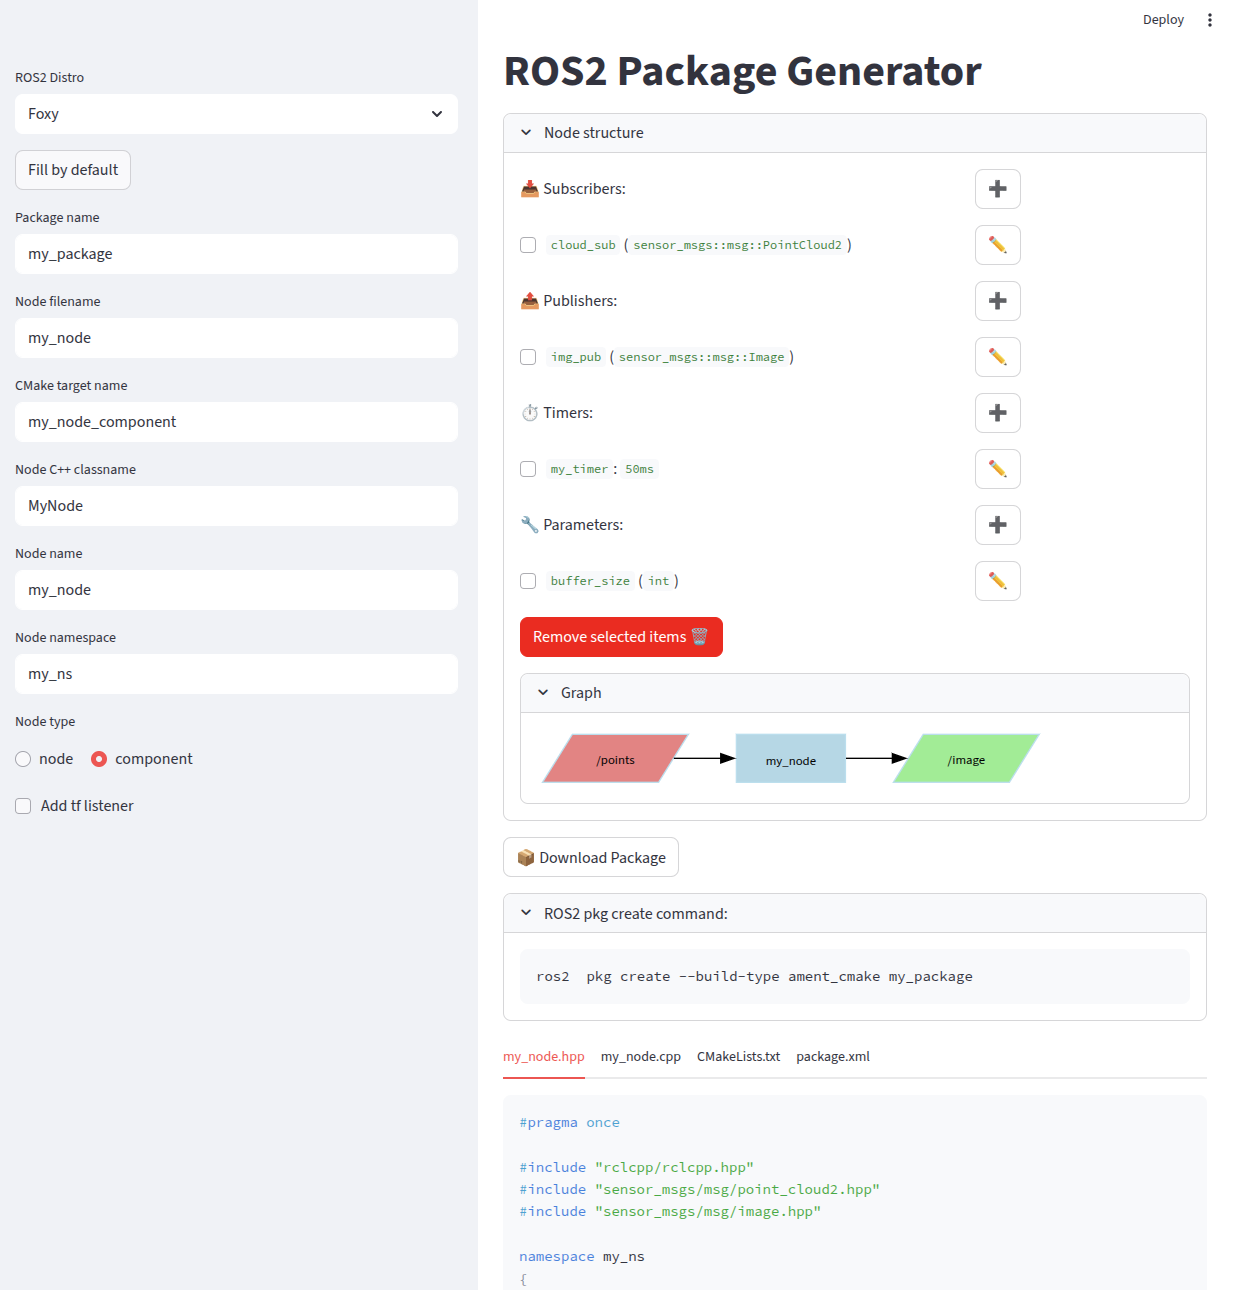
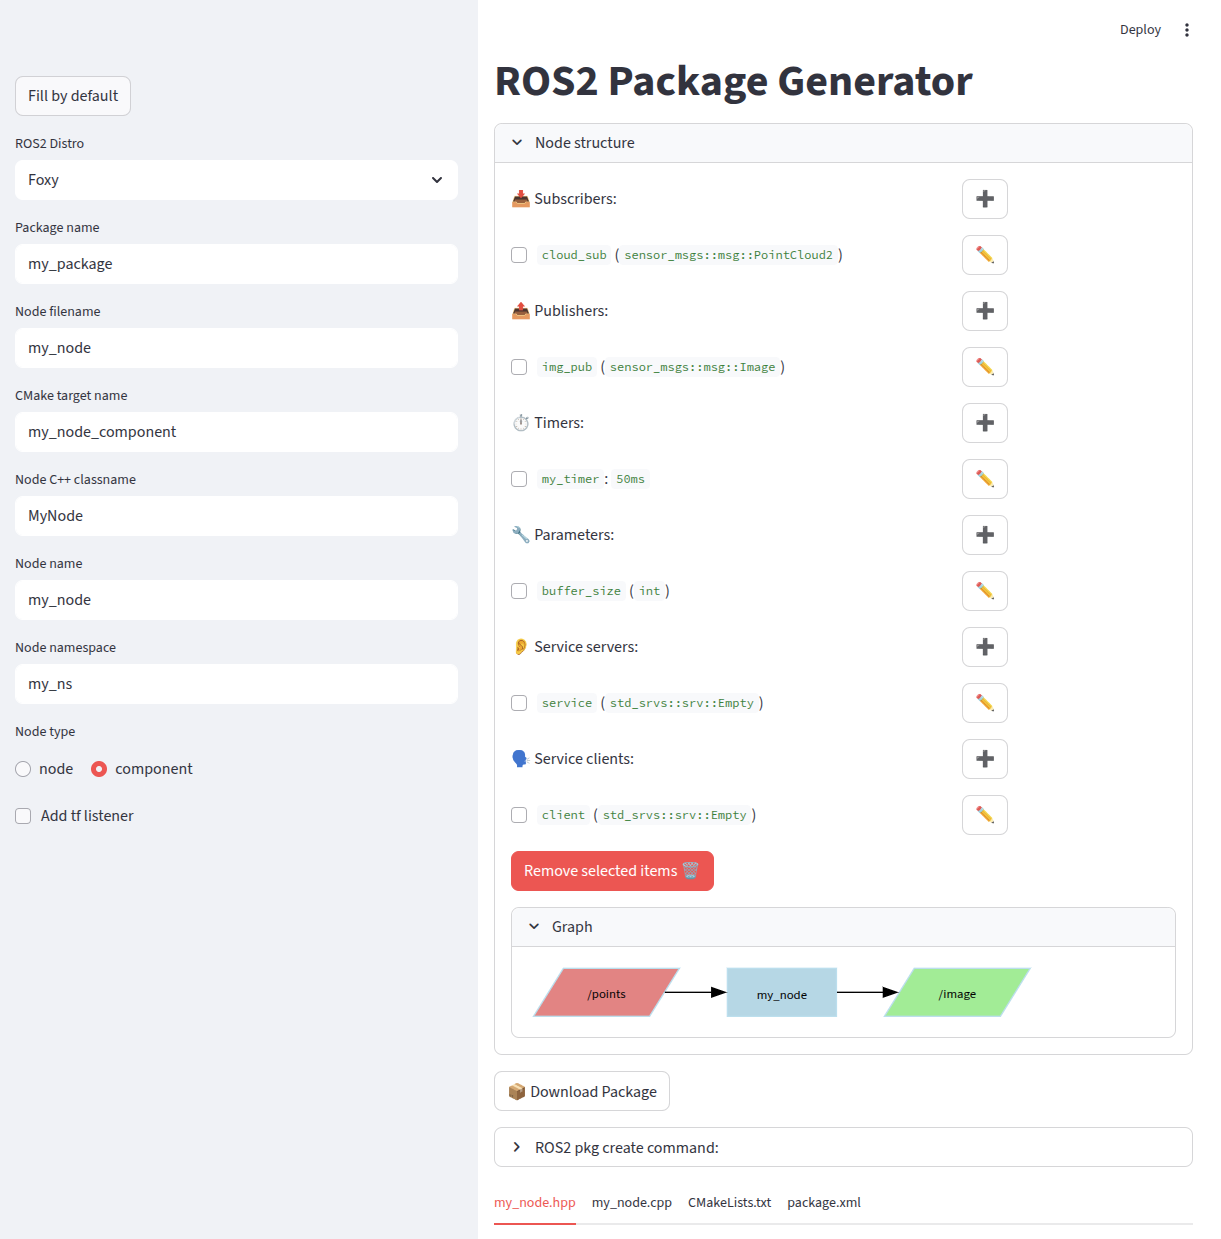
docs: Update with services

diff --git a/ros2_package_generator.py b/ros2_package_generator.py
@@ -289,10 +289,10 @@ with st.sidebar:
         st.session_state["gen"]["cmake_target_name"] = "my_library"
         st.session_state["gen"].add_publisher({"msg_type": "sensor_msgs::msg::Image", "var_name": "img_pub", "topic": "/image", "qos": {"is_default": True, "queue_size": 4}})
         st.session_state["gen"].add_subscription({"msg_type": "sensor_msgs::msg::PointCloud2", "var_name": "cloud_sub", "callback": "cloud_callback", "callback_arg_type": "sptr", "topic": "/points", "qos": {"is_default": True, "queue_size": 4}})
-        st.session_state["gen"].add_subscription({"msg_type": "geometry_msgs::msg::PoseStamped", "var_name": "pose_sub", "callback": "pose_callback", "callback_arg_type": "sptr", "topic": "/initial_pose", "qos": {"is_default": True, "queue_size": 4}})
         st.session_state["gen"].add_timer({"var_name": "my_timer", "period": 50, "callback": "my_timer_callback"},)
         st.session_state["gen"].add_param({"name": "buffer_size", "type": "int", "default": "10"})
-        st.session_state["gen"].add_param({"name": "path_to_onnx", "type": "std::string", "default": "\"\""})
+        st.session_state["gen"].add_service({"name": "test_empty", "type": "std_srvs::srv::Empty", "var_name": "service", "callback": "service_callback"})
+        st.session_state["gen"].add_client({"srv_name": "test_empty", "type": "std_srvs::srv::Empty", "var_name": "client"})
 
     # TODO: Support newer ROS2 distros
     st.session_state["gen"]["ros_distro"]  = st.selectbox("ROS2 Distro", options=["Foxy"])
@@ -330,6 +330,7 @@ def draw_node() -> Digraph:
                 style='filled', fillcolor='lightgreen')
         dot.edge('NODE', f'OUT_{i}', label='')
 
+    # TODO: add visualization for services
     return dot
 
 with st.expander("Node structure", expanded=True):

diff --git a/README.md b/README.md
@@ -21,7 +21,7 @@ Automatic generation of all template constructs. No more manual writing of:
 Support for all major ROS2 node elements:
 - [x] **📤 Publishers** (with QoS, topic, message type configuration)
 - [x] **📥 Subscribers** (with auto-generated callback functions)
-- [ ] **🔧 Services** (servers and clients)
+- [x] **🔧 Services** (servers and clients)
 - [x] **⏱ Timers** (periodic callbacks)
 - [x] **⚙ Parameters** (declaration and initialization)
 - [ ] **🎯 Actions** (action servers)
@@ -90,7 +90,7 @@ streamlit run ros2_package_generator.py
 - [ ] Add support for:
   - [x] ros2-params
   - [x] ros2-timers
-  - [ ] ros2-service
+  - [x] ros2-service
   - [ ] ros2-actions
   - [ ] message_filters
 - [ ] Support newer ROS2 distros (humble, iron, jazzy)
